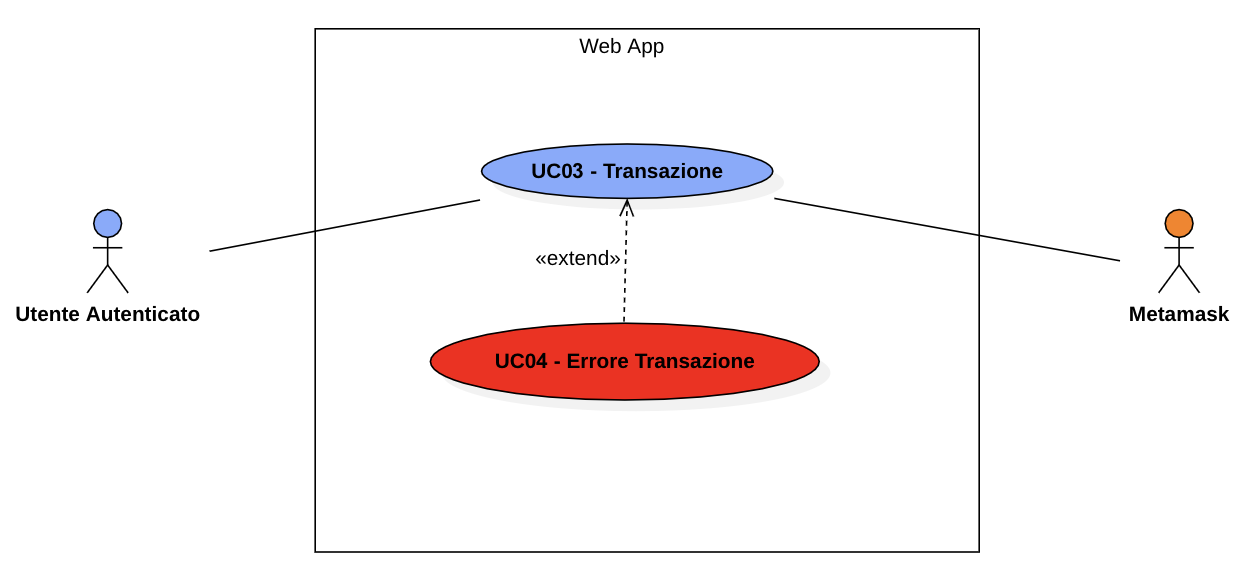
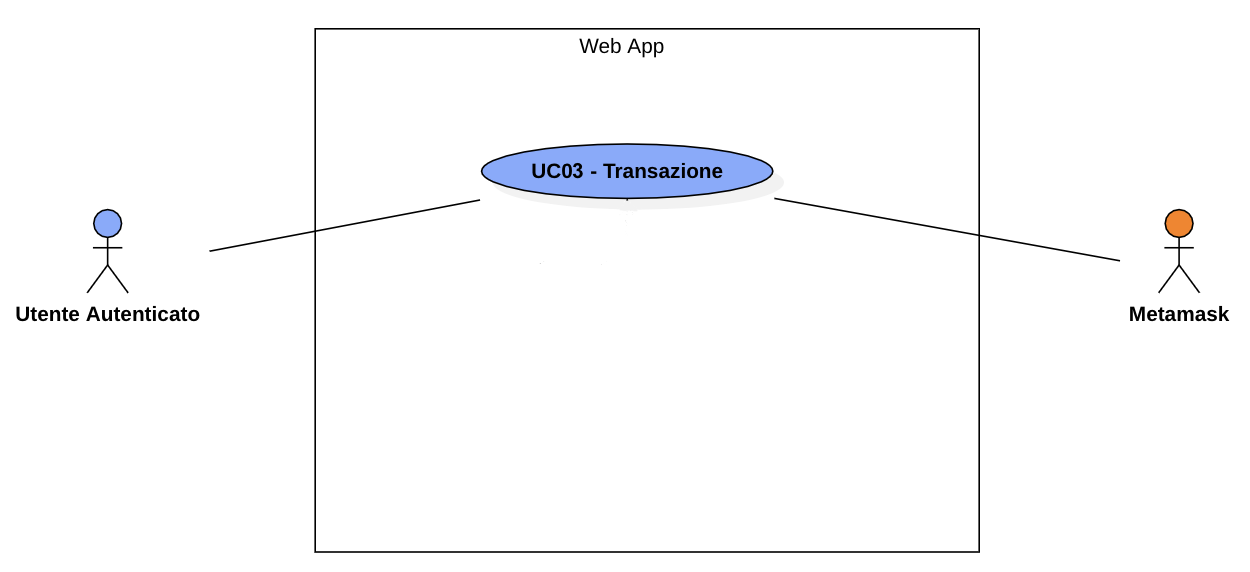
inizio issue #40

Changed region(s): [[0.3432, 0.5647, 0.6552, 0.7133], [0.4368, 0.4458, 0.4992, 0.4755]]

diff --git a/analisi_requisiti/src/sezioni/casi_uso.tex b/analisi_requisiti/src/sezioni/casi_uso.tex
@@ -92,7 +92,7 @@
 
             \subsubsection{UC03 - Transazione}
             \label{UC03}
-    
+                [DA RIVEDERE]
                 \begin{figure}[H]
                     \centering
                     \includegraphics[scale=0.6]{src/img/UC03.png}
@@ -118,45 +118,8 @@
                         \hline
                         \textbf{Scenario principale} & L'utente effettua il pagamento verso un altro wallet. \\
                         \hline
-                        \textbf{Estensioni} & Se l'operazione non va a buone fine, si verifica \hyperref[UC04]{UC04}.\\
-                        \hline
                     \end{tabularx}
                     \caption{UC03}
-                \end{table}
-
-            \subsubsection{UC04 - Errore Transazione}
-            \label{UC04}
-    
-                \begin{table}[H]
-                    \centering
-                    \rowcolors{1}{pari_alt}{dispari_alt}
-                    \renewcommand{\arraystretch}{1.8}
-                    \renewcommand\tabularxcolumn[1]{m{#1}}
-                    \begin{tabularx}{0.9\textwidth} {
-                        >{\hsize=.8\hsize\linewidth=\hsize}X
-                        >{\hsize=1.2\hsize\linewidth=\hsize}X}
-                        \hline
-                        \textbf{Attore primario} & Utente autenticato \\
-                        \hline
-                        \textbf{Attore secondario} & \textit{MetaMask} \\
-                        \hline
-                        \textbf{Precondizioni} & L'utente sta tentando di effettuare un pagamento. \\
-                        \hline
-                        \textbf{Postcondizioni} & Il pagamento fallisce. \\
-                        \hline
-                        \textbf{Scenario principale} &
-                        \begin{enumerate}
-                            \item L'utente tenta di effettuare un pagamento che non va a buon fine;
-                            \item Viene mostrato un errore che informa l'utente sul motivo del fallimento dell'operazione:
-                            \begin{itemize}
-                                \item l'utente pagante non ha abbastanza fondi;
-                                \item l'indirizzo dell'utente ricevente non è valido;
-                            \end{itemize}
-                            \item L'operazione viene annullata.
-                        \end{enumerate} \\
-                        \hline
-                    \end{tabularx}
-                    \caption{UC04}
                 \end{table}
 
         \subsubsection{UC05 - Rilascio Recensione}

diff --git a/piano_qualifica/src/sezioni/specifica_test.tex b/piano_qualifica/src/sezioni/specifica_test.tex
@@ -60,17 +60,7 @@
         \\ \hline
 
         TSR1F2&
-        Si verifica che l'utente autenticato possa eseguire un pagamento tramite \textit{MetaMask} verso un altro indirizzo wallet. &
-        Non implementato.
-        \\ \hline
-        
-        TSR1F2.1&
-        Si verifica che in caso di fondi insufficienti il pagamento non vada a buon fine.&
-        Non implementato.
-        \\ \hline
-        
-        TSR1F2.2&
-        Si verifica che in caso di indirizzo dell'utente ricevente non valido, il pagamento non vada a buon fine.&
+        [DA RIVEDERE] Si verifica che l'utente autenticato possa eseguire un pagamento tramite \textit{MetaMask} verso un altro indirizzo wallet. &
         Non implementato.
         \\ \hline
         
@@ -399,14 +389,6 @@
 
         TSR1F2&
         R1F2
-        \\ \hline
-        
-        TSR1F2.1&
-        R1F2.1
-        \\ \hline
-        
-        TSR1F2.2&
-        R1F2.2
         \\ \hline
         
         TSR1F3&

diff --git a/analisi_requisiti/src/sezioni/requisiti.tex b/analisi_requisiti/src/sezioni/requisiti.tex
@@ -98,7 +98,7 @@
             \hline
 
             R1F2 &
-            Obbligatorio &
+            [DA RIVEDERE] Obbligatorio &
             L'utente autenticato deve poter eseguire un pagamento di una certa somma, tramite \textit{MetaMask} verso un altro indirizzo wallet. &
             \hyperref[UC03]{UC03} \\
             \hline
@@ -703,10 +703,6 @@
 
             \hyperref[UC03]{UC03} &
             R1F2 \\
-            \hline
-
-            \hyperref[UC04]{UC04} &
-            R1F2.1, R1F2.2 \\
             \hline
 
             \hyperref[UC05]{UC05} &
